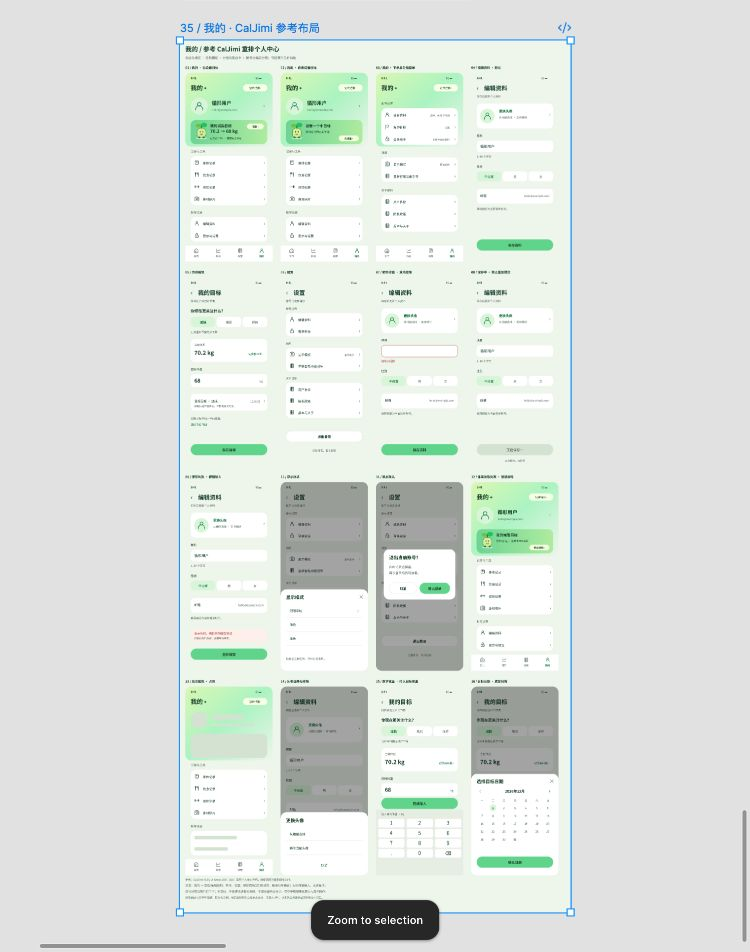
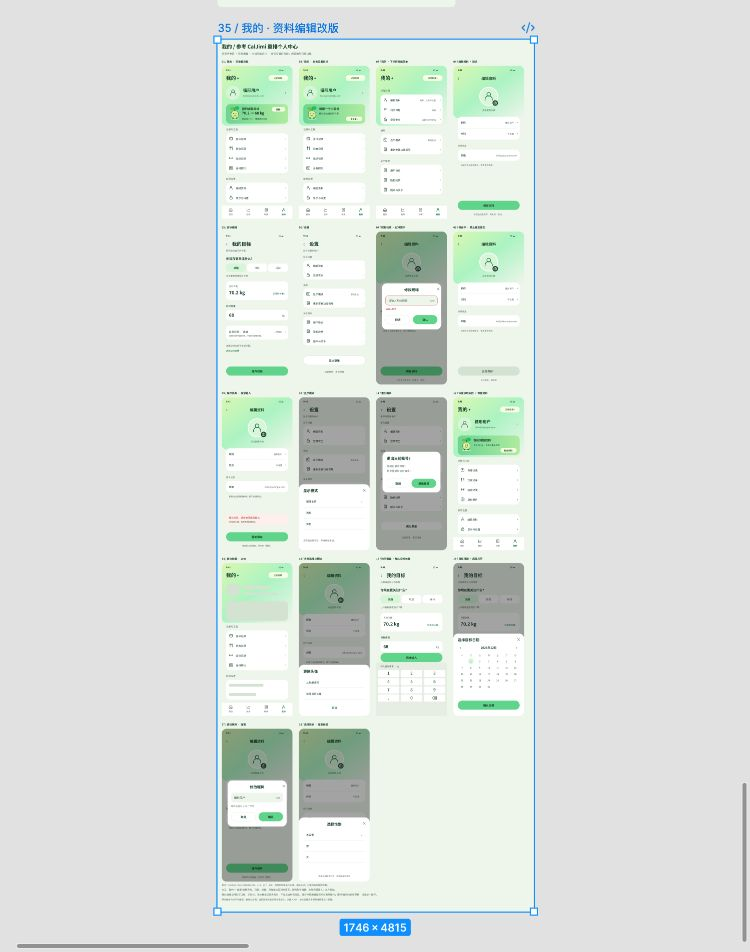
按 CalJimi 调整编辑资料与昵称性别交互设计

Changed region(s): [[0.2147, 0.0, 0.7667, 1.0], [0.9813, 0.8225, 1.0, 0.8529], [0.0307, 0.9748, 0.0613, 1.0]]

diff --git a/docs/design/CORE-DESIGN-PROGRESS.md b/docs/design/CORE-DESIGN-PROGRESS.md
@@ -4,12 +4,12 @@
 
 ## 我的、资料、目标与设置（2026-10-19）
 
-[35 / 我的 · CalJimi 参考布局](https://www.figma.com/design/Ct4AworB8fYBPjpSVwWbRW?node-id=198-6654) 包含 16 屏。按用户要求重新参考 CalJimi 个人中心：顶部渐变、大头像与昵称、角色横幅、分组白卡和带图标的行入口。横幅适配为循形目标入口，记录与工具、账号设置、通用和关于分组组织现有功能；底栏继续使用 H5 UiIcon 原有路径，二级页隐藏底栏。
+[35 / 我的 · 资料编辑改版](https://www.figma.com/design/Ct4AworB8fYBPjpSVwWbRW?node-id=198-7592) 包含 18 屏。按用户要求重新参考 CalJimi 个人中心：顶部渐变、大头像与昵称、角色横幅、分组白卡和带图标的行入口。横幅适配为循形目标入口，记录与工具、账号设置、通用和关于分组组织现有功能；底栏继续使用 H5 UiIcon 原有路径，二级页隐藏底栏。
 
 | 画面 | 主要约定 |
 | --- | --- |
 | 我的：有目标、无目标 | 显示真实账号摘要，无目标时提供设置入口 |
-| 我的下半屏、编辑资料 | 账号/通用/关于分组；头像区和编辑资料入口进入编辑，保留头像、昵称和性别 |
+| 我的下半屏、编辑资料 | 账号/通用/关于分组；头像区和编辑资料入口进入编辑；居中头像与相机入口，昵称/性别分组列表，邮箱单独只读 |
 | 目标编辑 | 减脂/增肌/保持、当前体重、目标体重、可选日期 |
 | 设置、显示模式 | 账号、安全、协议、关于、功能引导；跟随系统/浅色/深色 |
 | 昵称错误、保存中、保存失败 | 就地提示、阻止重复提交、保留表单并提供重试 |
@@ -19,11 +19,11 @@
 
 内容依据现有 H5 ProfileView、ProfileInfoView、AccountSettingsView、GoalSettingsView 与 SettingsView 整理。保持体重目标、缺失值与失败的业务口径。图中保存成功返回来源页并刷新摘要属于后续实现约定，尚未修改当前 H5 的导航。
 
-Figma MCP 额度限制仍存在，本批通过编辑器导入原生文字与矢量图层；没有用整屏位图作为设计图层。已检查改版后全貌和我的主页单屏；资料编辑、数字键盘及底栏图标沿用已核对画面；未建立自动布局、变量绑定与点击原型。图中数据为示例，没有调用真实账号、安装 APK 或部署。本轮没有修改 H5、Android 或 API。
+Figma MCP 额度限制仍存在，本批通过编辑器导入原生文字与矢量图层；没有用整屏位图作为设计图层。已检查改版后全貌、编辑资料单屏、昵称弹窗和性别弹层；数字键盘及底栏图标沿用已核对画面；未建立自动布局、变量绑定与点击原型。图中数据为示例，没有调用真实账号、安装 APK 或部署。本轮没有修改 H5、Android 或 API。
 
-文件：[可编辑 SVG](fittrace-profile-green-2026-10-19.svg)、[16 屏总览](fittrace-profile-green-2026-10-19.png)、[我的单屏预览](fittrace-profile-main-2026-10-19.png)。
+文件：[可编辑 SVG](fittrace-profile-green-2026-10-19.svg)、[18 屏总览](fittrace-profile-green-2026-10-19.png)、[我的单屏预览](fittrace-profile-main-2026-10-19.png)、[编辑资料预览](fittrace-profile-edit-2026-10-19.png)。
 
-参考证据：[CalJimi 我的主页（209）](https://uinotes.com/pin/488948447893600531)、[下半屏分组菜单（210）](https://uinotes.com/pin/722015924696485696)。本轮重排了我的上半屏、下半屏、无目标、加载、体重读取失败和设置分组；其他表单状态继续沿用。参考为截图观察，未操作 CalJimi 真实 App。
+参考证据：[CalJimi 我的主页（209）](https://uinotes.com/pin/488948447893600531)、[下半屏分组菜单（210）](https://uinotes.com/pin/722015924696485696)。资料编辑继续参考 [编辑资料（237）](https://uinotes.com/pin/214124527921878996) 与 [修改昵称弹窗（238）](https://uinotes.com/pin/474633025938398950)：居中头像、相机入口、分组列表和昵称弹窗。补齐独立性别弹层并同步更新校验、保存中、失败与头像选择状态。昵称长度沿用循形 1–40 字符；弹窗确认只更新草稿，页面统一保存。性别弹层和统一保存为循形适配约定，不能据参考截图确认 CalJimi 的实际提交时机。参考为截图观察，未操作 CalJimi 真实 App。
 
 ## 最新训练交互方向：参考 CalJimi（2026-10-19）
 
